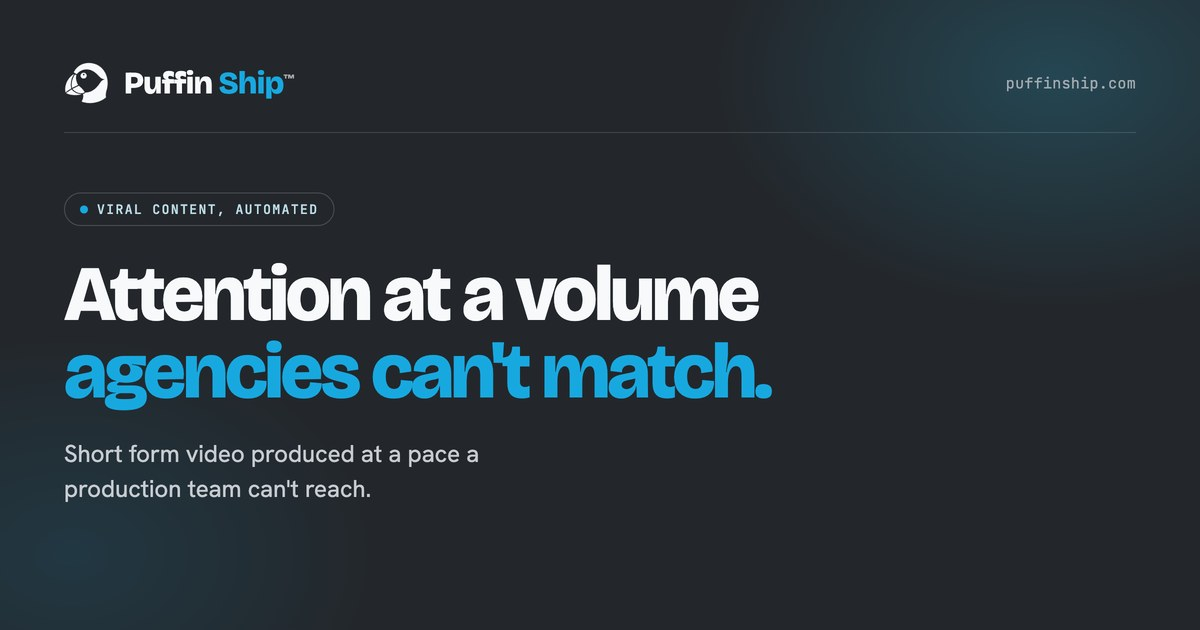
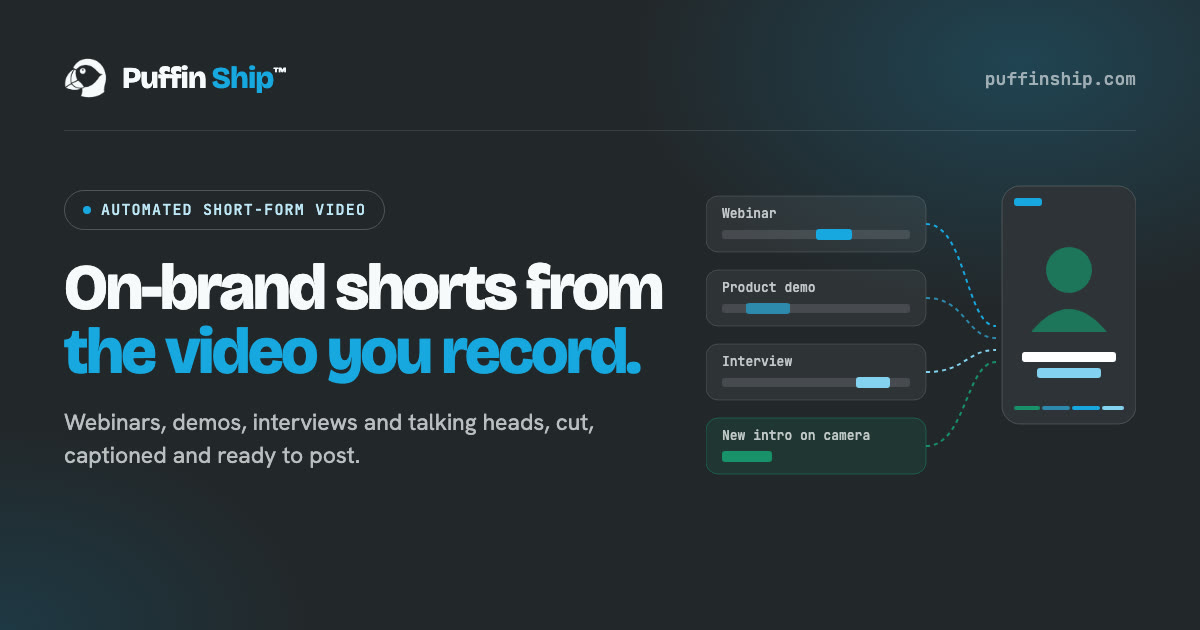
Replace the agency social card with one for automated short-form video

diff --git a/index.html b/index.html
@@ -50,18 +50,18 @@
   <meta property="og:title" content="Puffin Ship: Automated Short-Form Video" />
   <meta property="og:description" content="Puffin Ship turns webinars, product demos, streams and any other footage you record into a steady run of on-brand short clips, cropped, captioned and ready to post." />
   <meta property="og:url" content="https://puffinship.com/" />
-  <meta property="og:image" content="https://puffinship.com/assets/og-image.jpg?v=6" />
+  <meta property="og:image" content="https://puffinship.com/assets/og-image.jpg?v=7" />
   <meta property="og:image:type" content="image/jpeg" />
   <meta property="og:image:width" content="1200" />
   <meta property="og:image:height" content="630" />
-  <meta property="og:image:alt" content="Puffin Ship: automated short-form video from the footage you already have." />
+  <meta property="og:image:alt" content="Puffin Ship: on-brand shorts from the video you record. Webinars, demos, interviews and talking heads, cut, captioned and ready to post." />
 
   <!-- Twitter / X -->
   <meta name="twitter:card" content="summary_large_image" />
   <meta name="twitter:title" content="Puffin Ship: Automated Short-Form Video" />
   <meta name="twitter:description" content="Puffin Ship turns webinars, product demos, streams and any other footage you record into a steady run of on-brand short clips, cropped, captioned and ready to post." />
-  <meta name="twitter:image" content="https://puffinship.com/assets/og-image.jpg?v=6" />
-  <meta name="twitter:image:alt" content="Puffin Ship: automated short-form video from the footage you already have." />
+  <meta name="twitter:image" content="https://puffinship.com/assets/og-image.jpg?v=7" />
+  <meta name="twitter:image:alt" content="Puffin Ship: on-brand shorts from the video you record. Webinars, demos, interviews and talking heads, cut, captioned and ready to post." />
 
   <!-- Business contact info, plainly stated for crawlers/AI agents that read meta tags -->
   <meta property="business:contact_data:email" content="info@puffinship.com" />
